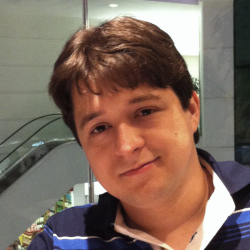
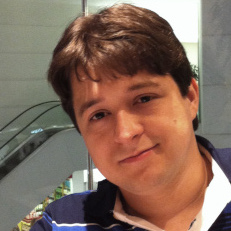
Minor UX/design improvements

diff --git a/site/pages/me.html b/site/pages/me.html
@@ -1,27 +1,28 @@
-<h1>About me</h1>
-<p>Hi! I'm Diego Zanon
-    (diego<svg id="obfuscated-sign" role="img" aria-labelledby="obfuscated-sign-title" height="16px"
-        viewBox="0 0 100 100">
-        <title id="obfuscated-sign-title">obfuscated sign to avoid web scrapers</title>
+<div class="about-me">
+    <div class="about-me-text">
+        <h1>About me</h1>
+        <p>Hi! I'm Diego Zanon
+            (diego<svg id="obfuscated-sign" role="img" aria-labelledby="obfuscated-sign-title" height="16px"
+                viewBox="0 0 100 100">
+                <title id="obfuscated-sign-title">obfuscated sign to avoid web scrapers</title>
 
-        <circle cx="47" cy="50" r="15" fill="none" stroke-width="8" />
+                <circle cx="47" cy="50" r="15" fill="none" stroke-width="8" />
 
-        <path d="M 10,50 A 40,40 0 1,1 90,50
+                <path d="M 10,50 A 40,40 0 1,1 90,50
                 M 10,50 A 40,40 0 0,0 50,90
                 M 50,90 A 40,40 0 0,0 75,81
                 M 62,55 A 13,13 0 0,0 90,55
                 M 62,55 L 65,30
                 M 90,55 L 90,50" fill="none" stroke-width="8" />
 
-    </svg>zanon.dev)
-</p>
-
-<img src="/imgs/site/me/me.jpeg" alt="The site owner photo">
-
-<p>I'm a Full-Stack Developer, JavaScripter, AWS and Serverless power-user, Dad, Husband, Left-wing, He/Him.</p>
-
-<p>If you want to hire me and prefer PDF files, download <a target="_blank" href="/assets/resume.pdf">my
-        resume</a>.</p>
+            </svg>zanon.dev)
+        </p>
+        <p>I'm a Full-Stack Developer, JavaScripter, AWS and Serverless power-user, Dad, Husband, Left-wing, He/Him.</p>
+        <p>If you want to hire me and prefer PDF files, download <a target="_blank" href="/assets/resume.pdf">my
+                resume</a>.</p>
+    </div>
+    <img src="/imgs/site/me/me.jpeg" alt="The site's owner photo">
+</div>
 
 <h1>Resume</h1>
 

diff --git a/src/scripts/new-snippet.ts b/src/scripts/new-snippet.ts
@@ -41,6 +41,8 @@ export const newSnippet = async (code: string, filepath: string): Promise<void> 
     }
 
     const file = marked(await fs.promises.readFile(filepath, 'utf8'));
+    const postTemplate = await fs.promises.readFile(path.resolve('./site/pages/post.html'), 'utf8');
+    const processedFile = postTemplate.replace('<article></article>', `<article>${file}</article>`);
 
     const template = await fs.promises.readFile(path.resolve('./src/templates/snippet.html'), 'utf8');
     const textToFind = 'https://zanon.dev/snippet/';
@@ -48,7 +50,7 @@ export const newSnippet = async (code: string, filepath: string): Promise<void> 
 
     const s3 = new AWS.S3({ apiVersion: '2006-03-01', region: 'us-east-1' });
 
-    const fileToUpload = buildObjectToUpload({ key: `snippets/${code}`, content: file, mimeType: 'text/plain' });
+    const fileToUpload = buildObjectToUpload({ key: `snippets/${code}`, content: processedFile, mimeType: 'text/plain' });
     const htmlToUpload = buildObjectToUpload({ key: code, content: html, mimeType: 'text/html' });
 
     await s3.putObject(fileToUpload).promise();

diff --git a/site/js/newsletter.ts b/site/js/newsletter.ts
@@ -12,11 +12,14 @@ export const configureNewsletter = (): void => {
 
     const fetchNewsletter = async (httpMethod: string): Promise<void> => {
         if (emailElm.value) {
+            const email = emailElm.value;
+            emailElm.value = '';
+
             await fetch(lambdaURL, {
                 method: httpMethod,
                 headers,
                 body: JSON.stringify({
-                    email: emailElm.value,
+                    email,
                     requestType: BackendRequestType.Newsletter
                 })
             }).then(response => {
@@ -26,8 +29,6 @@ export const configureNewsletter = (): void => {
 
                 newsletterMessage.innerHTML = message;
                 newsletterMessage.classList.remove('dont-display');
-
-                emailElm.value = '';
             });
         }
     }

diff --git a/site/css/about-me.scss b/site/css/about-me.scss
@@ -1,0 +1,35 @@
+@import './media-query';
+@import './variables';
+
+.about-me {
+    display: flex;
+
+    &-text {
+        margin-right: 50px;
+    }
+
+    img {
+        margin-top: 25px;
+        margin-left: auto;
+        border-radius: 5%;
+        width: 230px;
+        height: 230px;
+    }
+}
+
+@include for-mobile {
+    .about-me {
+        flex-direction: column;
+
+        img {
+            margin-right: auto;
+            margin-top: 0px;
+        }
+    }
+}
+
+#obfuscated-sign {
+    width: $font-size;
+    height: auto;
+    vertical-align: middle;
+}

diff --git a/site/js/snippets.ts b/site/js/snippets.ts
@@ -1,3 +1,5 @@
+import { configureFeedback } from './feedback';
+
 export const configureSnippet = (): void => {
     const notFoundElm = document.getElementById('not-found');
     notFoundElm.style.display = 'none';
@@ -17,6 +19,8 @@ export const configureSnippet = (): void => {
         .then(text => {
             document.getElementById('snippet').innerHTML = text;
             Prism.highlightAll();
+
+            configureFeedback();
         })
         .catch(() => {
             notFoundElm.style.display = '';

diff --git a/site/js/theme-switcher.ts b/site/js/theme-switcher.ts
@@ -3,13 +3,13 @@ import storage from './storage';
 
 const light: ThemeElement = {
     alt: 'Light Mode',
-    background: '#80B2EE',
+    background: '#80b2ee',
     class: Theme.Light
 }
 
 const dark: ThemeElement = {
     alt: 'Dark Mode',
-    background: '#595DDD',
+    background: '#595ddd',
     class: Theme.Dark
 }
 

diff --git a/site/css/code.scss b/site/css/code.scss
@@ -5,7 +5,6 @@ body {
 
     pre[class*="language-"],
     code[class*="language-"] {
-        background: #151515;
         border-radius: 1em;
         font-size: 1em;
         outline: none;
